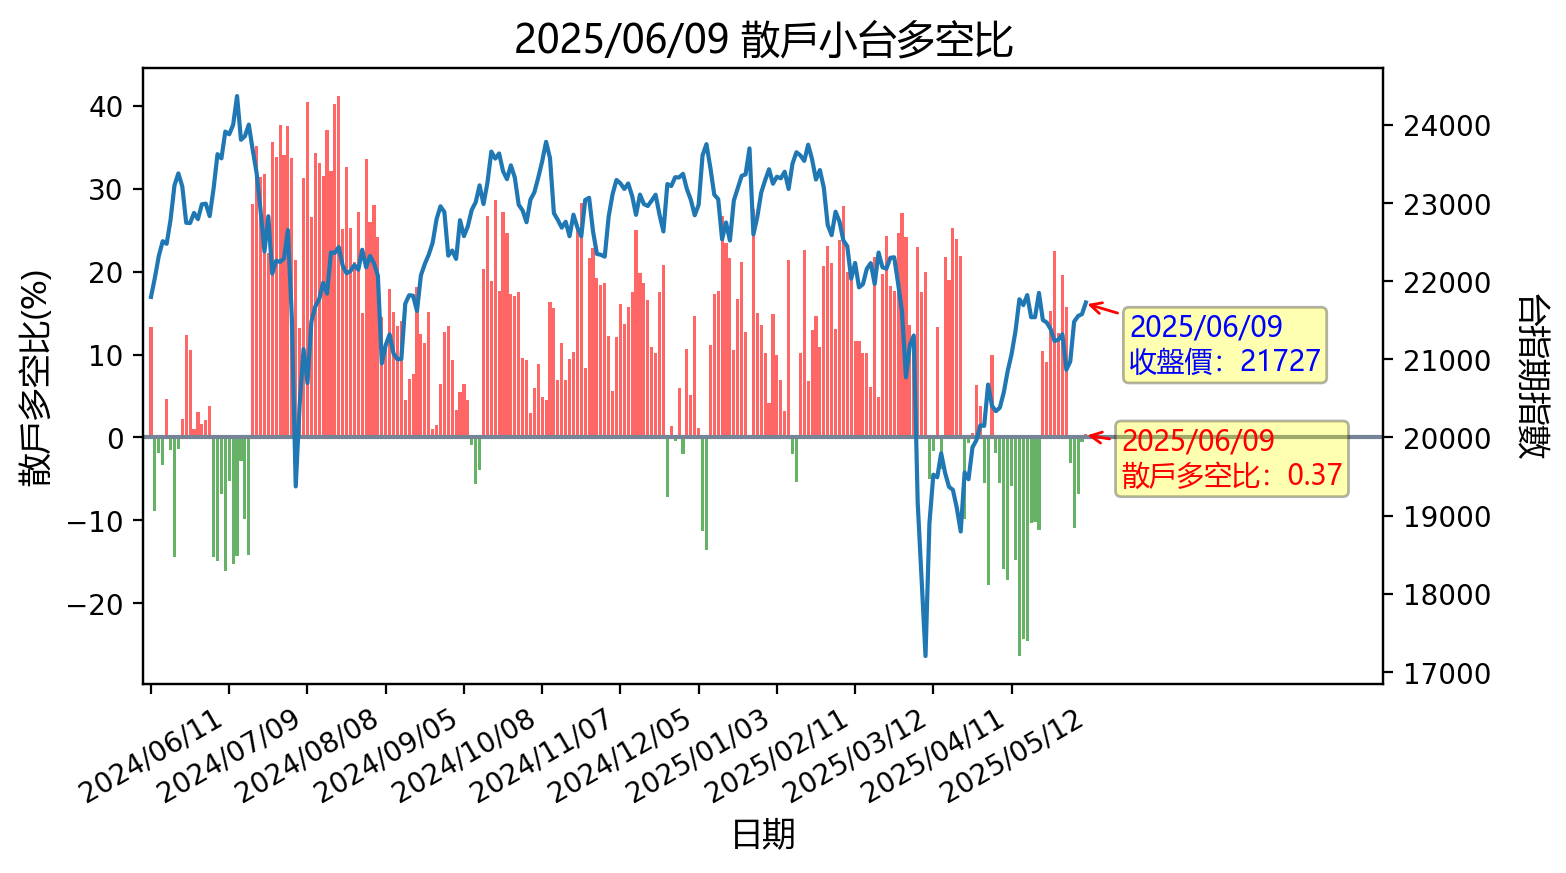
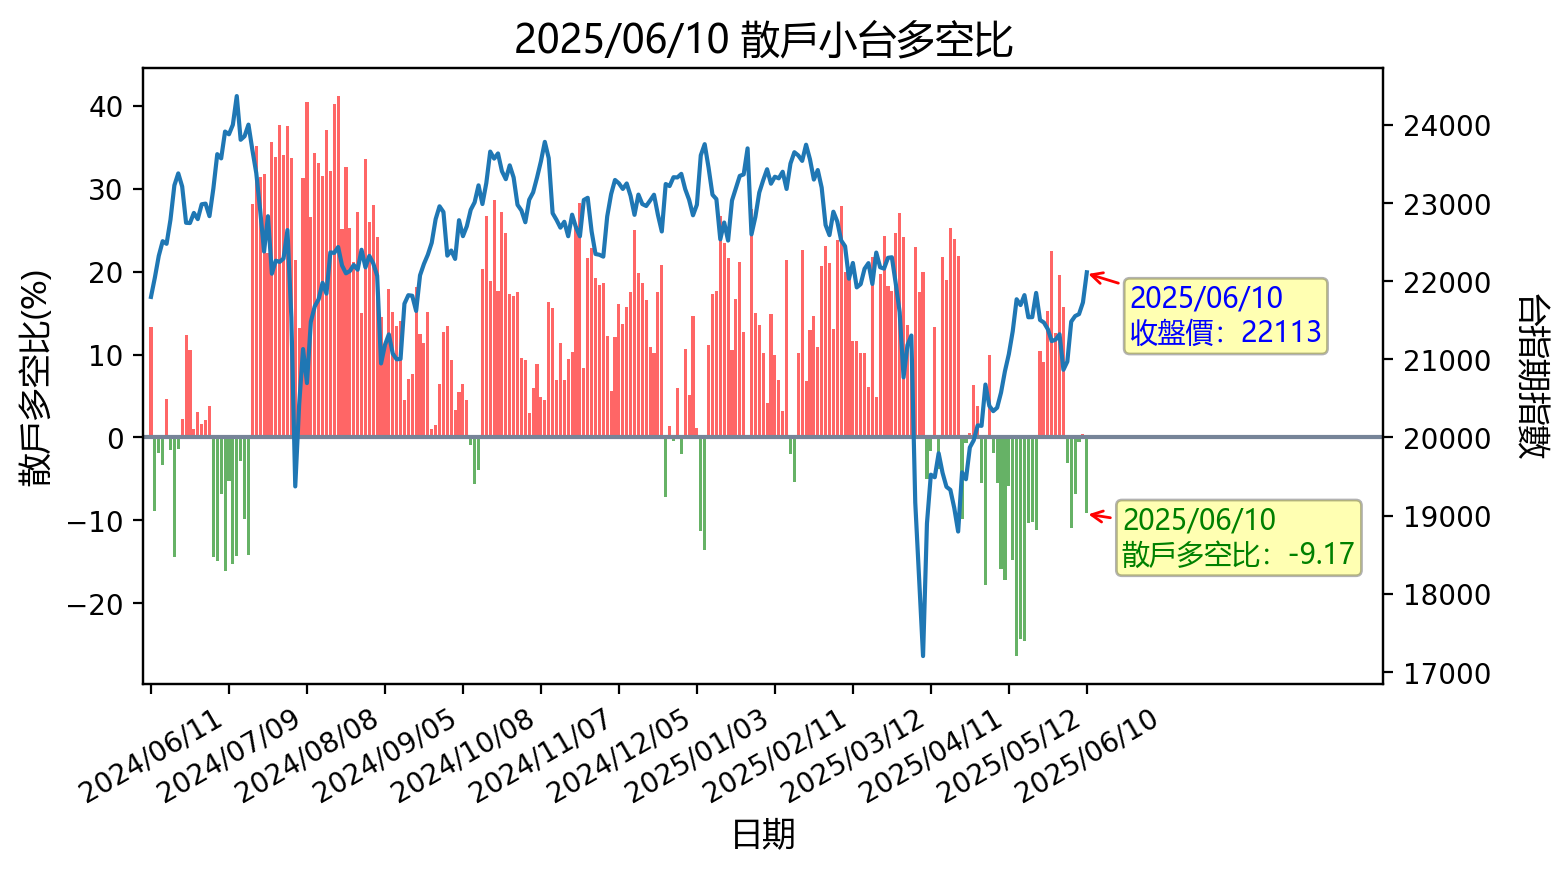
更新時間: Tue Jun 10 16:41:34 CST 2025

diff --git a/README.md b/README.md
@@ -1,12 +1,12 @@
-## 20250609 台指期「預估換倉成本」
+## 20250610 台指期「預估換倉成本」
 ![](images/txfcost.png)
 
-## 20250609 台指期「散戶小台多空比」
+## 20250610 台指期「散戶小台多空比」
 ![](images/bbiri.png)
 
-## 20250609 台指選擇權「Put/Call Ratios」
+## 20250610 台指選擇權「Put/Call Ratios」
 ![](images/pcratio.png)
 
-## 20250609 台指期「大額交易人」
+## 20250610 台指期「大額交易人」
 ![](images/blocktrade.png)
 
